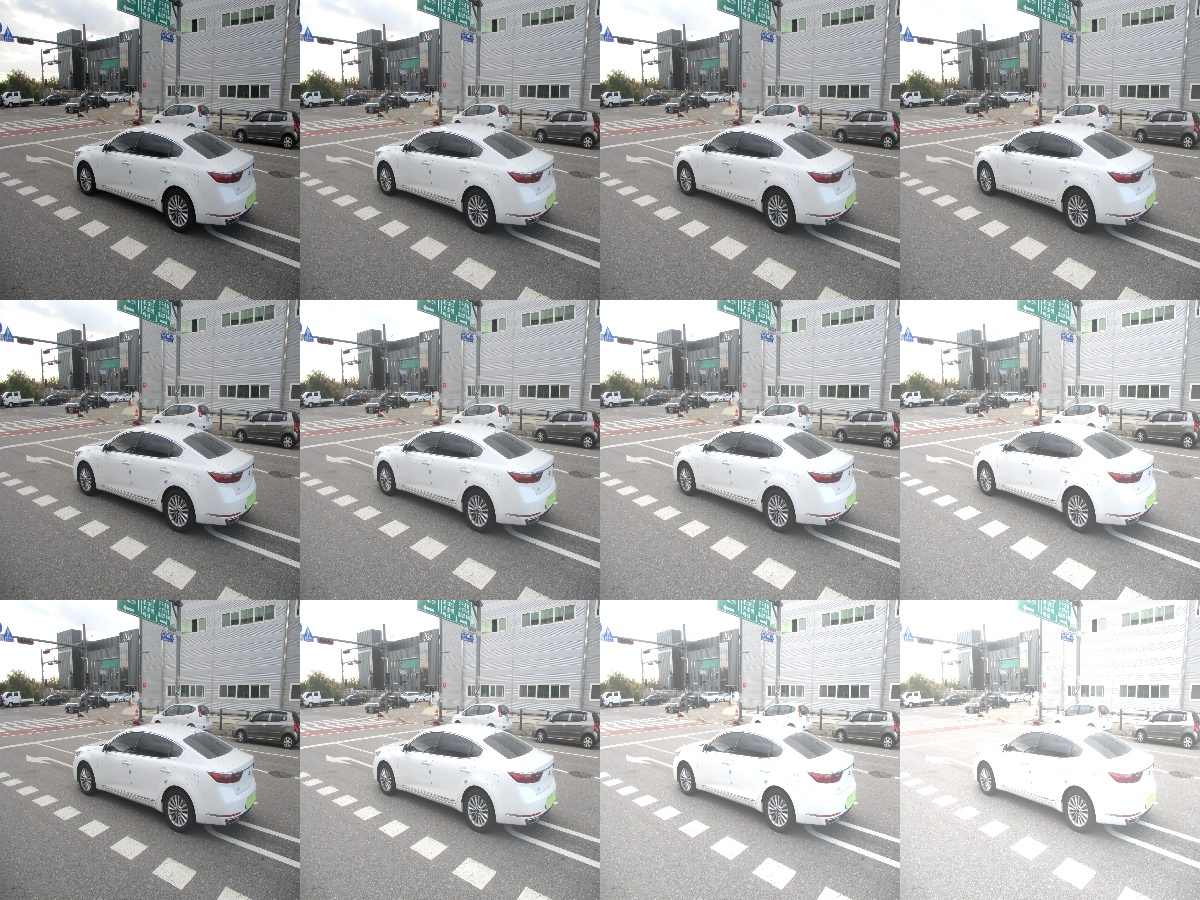
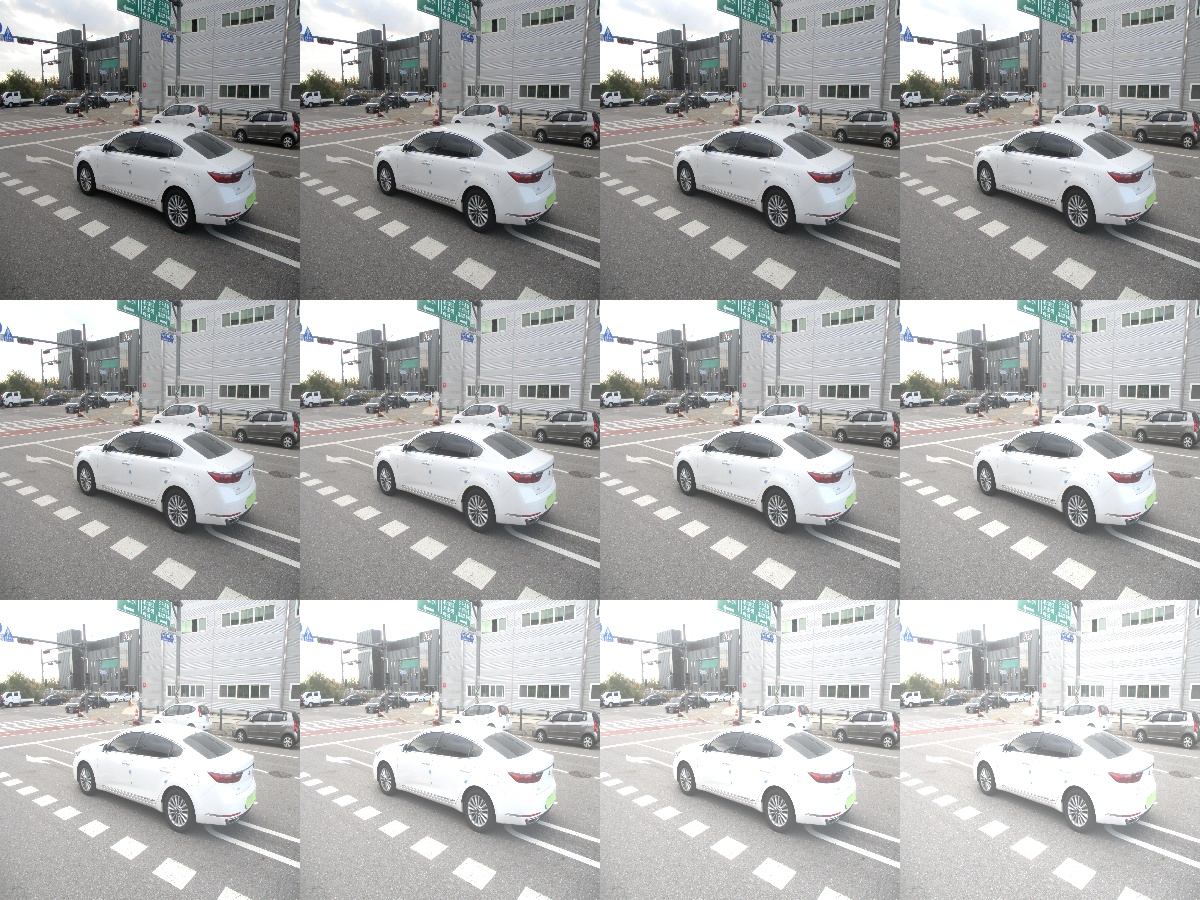
2021_07_21_make_light_sub_add_label_edit

Changed region(s): [[0.0, 0.6533, 0.5242, 1.0]]

diff --git a/light_add_sub.py b/light_add_sub.py
@@ -1,23 +1,55 @@
 import cv2
 import os
 import numpy as np
+import shutil
+image_path = './test2.jpg'
+gt_path = './test2.txt'
+trans_gt_add_save_path = './add_result.txt'
+trans_gt_sub_save_path = './sub_result.txt'
+origin_image = cv2.imread(image_path, cv2.IMREAD_COLOR)
+h, w = origin_image.shape[:2]
+image = cv2.resize(origin_image,(300,300))
 
-image = cv2.imread('./test2.jpg', cv2.IMREAD_COLOR)
-
-image = cv2.resize(image,(300,300))
-h, w = image.shape[:2]
-
-name_space = ['origin', 'flip']
+resize_rate_height = h / 300
+resize_rate_width = w / 300
+ground_truth_list = []
+with open(gt_path) as fd:
+    boxes = fd.readlines()
+    for box in boxes:
+        box = box.strip()
+        box = box.split()
+        class_num = int(box[0])
+        center_x =  float(box[1]) * w / resize_rate_width
+        center_y = float(box[2]) * h  / resize_rate_height
+        box_width = float(box[3]) * w / resize_rate_width
+        box_height = float(box[4]) * h / resize_rate_height
+        # min_x = int((center_x - box_width / 2)    / resize_rate_width)
+        # min_y = int((center_y - box_height / 2)  / resize_rate_height)
+        # max_x = int((center_x + box_width / 2)   / resize_rate_width)
+        # max_y = int((center_y + box_height / 2)  / resize_rate_height)
+        ground_truth_list.append([class_num,center_x,center_y,box_width,box_height])
 temp_add_image = np.zeros((300,300))
 temp_sub_image = np.zeros((300,300))
-# for x in range(2):
+index = 1
+ground_truth_list_len = len(ground_truth_list)
 for i in range(3):
     for j in range(4):
+        
         if i==0 and j == 0:
             three_add_image = image
             three_sub_image = image
             continue
-        val = (i+1)*(j+1) * 10
+        for gt_index in range(ground_truth_list_len):
+            ground_truth_list.append([
+                    ground_truth_list[gt_index ][0], 
+                    ground_truth_list[gt_index][1] + 300*j,
+                    ground_truth_list[gt_index][2] + 300*i,
+                    ground_truth_list[gt_index][3],
+                    ground_truth_list[gt_index][4],
+                ])
+        
+        val = index * 10
+        index += 1
         print("val 값 \t : {}".format(val) )        
         array = np.full(image.shape, (val,val,val), dtype=np.uint8)
         print(image.shape, array.shape)
@@ -44,3 +76,17 @@ cv2.destroyAllWindows()
 
 cv2.imwrite('add_result'+'.jpg', temp_add_image)
 cv2.imwrite('sub_result'+'.jpg', temp_sub_image)
+resize_h, resize_w = temp_add_image.shape[:2]
+print(resize_h, resize_w)
+
+with open(trans_gt_add_save_path, 'w') as wd:
+    for lines in ground_truth_list:
+        string = "{} {} {} {} {}\n".format(
+            lines[0], 
+            round(lines[1] / resize_w , 6), 
+            round(lines[2] / resize_h,6),
+            round(lines[3] / resize_w,6),
+            round(lines[4] / resize_h,6),
+        )
+        d = wd.write(string)
+shutil.copy(trans_gt_add_save_path, trans_gt_sub_save_path)

diff --git a/rotation.py b/rotation.py
@@ -3,14 +3,18 @@ import os
 import numpy as np
 
 image = cv2.imread('./test2.jpg', cv2.IMREAD_COLOR)
-
-image = cv2.resize(image,(300,300))
 h, w = image.shape[:2]
+image = cv2.resize(image,(300,300))
+
+resize_rate_height = h // 300
+resize_rate_width = w // 300
+
 name_space = ['origin', 'flip']
 
 for x in range(2):
     temp_image = np.zeros((300,300))
     index = 1
+    
     if x == 1:
         image = cv2.flip(image, 1)
     for i in range(3):
@@ -19,8 +23,8 @@ for x in range(2):
                 three_images = image
                 print(i,j)
                 continue
-            
-            M = cv2.getRotationMatrix2D((w/2,h/2), index*30, 1)
+            degree = index * 30
+            M = cv2.getRotationMatrix2D((w/2,h/2), degree, 1)
             index +=1
             trans_image = cv2.warpAffine(image, M, (w,h))
             if j != 0 :

diff --git a/test.py b/test.py
@@ -1,0 +1,5 @@
+linst = []
+linst.append([1,2,3,4])
+print(linst)
+print(linst[1:4] + 300)
+# linst.append()
